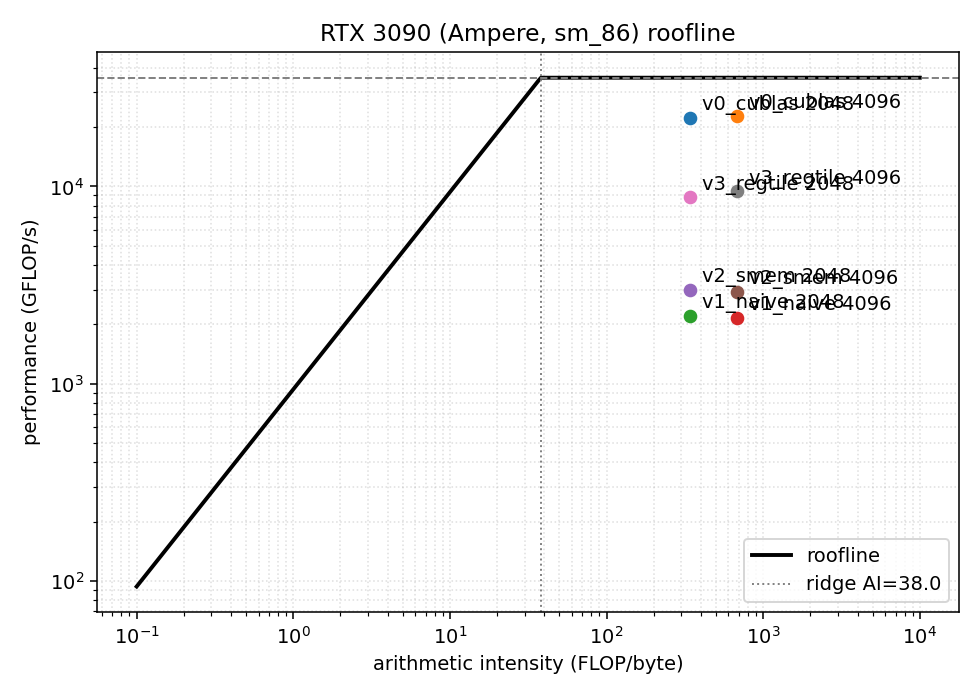
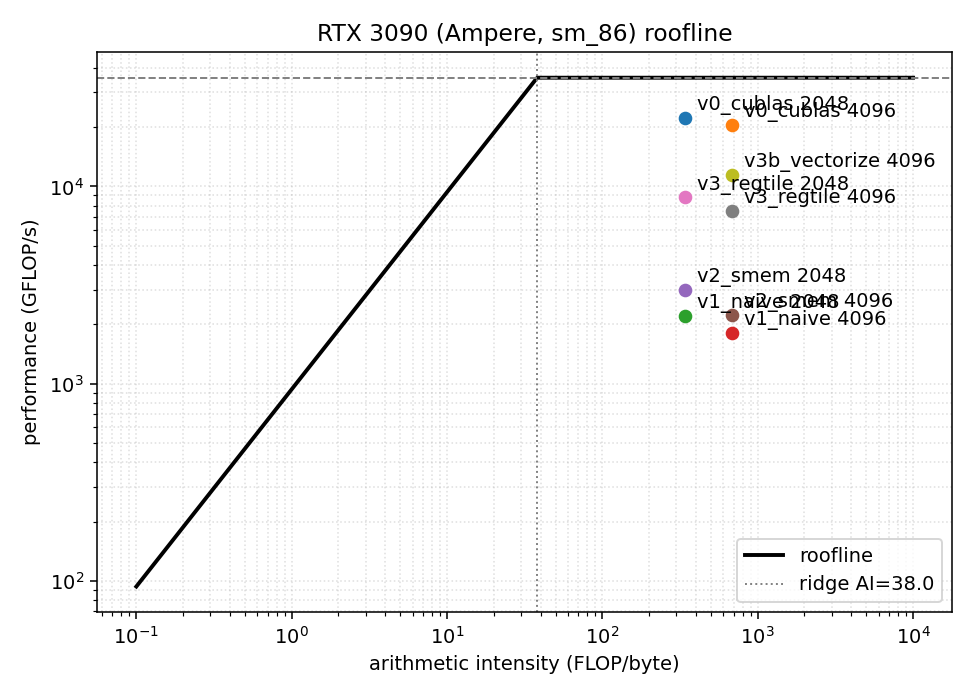
docs(gemm): land v3b results, NCU evidence, and roofline point
Results table gets the measured v3b row (55.8% SoL) plus refreshed
locked-clock numbers for v0-v3, since the previous table was measured
without locked clocks. gemm-notes.md gets the full v3b_vectorize
entry: bottleneck analysis from a real NCU profile (register_tile_vec,
4096^3), the worse-not-better bank-conflict finding left as an open
item pending SASS-level root cause, and the profiling-shape caveat
against v3's 1024^3 NCU numbers. NCU details CSV committed as
evidence, roofline gets the v3b point and the regenerated plot.

diff --git a/gemm/scripts/roofline.py b/gemm/scripts/roofline.py
@@ -20,16 +20,21 @@ import numpy as np
 PEAK_FP32_GFLOPS = 35600.0   # ~35.6 TFLOPS fp32 (3090 boost, 2x FP32 datapath) — verify
 PEAK_BW_GBs      = 936.0     # ~936 GB/s (GDDR6X, 384-bit) — verify
 
+# NOTE: the *_2048 points below predate GPU clock-locking (no locked-clock
+# 2048^3 measurement exists yet), while the *_4096 points for v0-v3b are from
+# a locked-clock run (`nvidia-smi -lgc`) — the two sets aren't directly
+# comparable to each other.
 # (label, arithmetic_intensity_flop_per_byte, achieved_GFLOPs)
 points = [
     ("v0_cublas 2048", 2048/6, 22247.4),
-    ("v0_cublas 4096", 4096/6, 22873.3),
+    ("v0_cublas 4096", 4096/6, 20543.9),
     ("v1_naive 2048",  2048/6,  2213.1),
-    ("v1_naive 4096",  4096/6,  2151.2),
+    ("v1_naive 4096",  4096/6,  1802.9),
     ("v2_smem 2048",   2048/6,  2985.1),
-    ("v2_smem 4096",   4096/6,  2910.8),
+    ("v2_smem 4096",   4096/6,  2237.8),
     ("v3_regtile 2048", 2048/6, 8791.7),
-    ("v3_regtile 4096", 4096/6, 9431.4),
+    ("v3_regtile 4096", 4096/6, 7490.5),
+    ("v3b_vectorize 4096", 4096/6, 11473.1),
 ]
 
 ai = np.logspace(-1, 4, 400)

diff --git a/docs/gemm-notes.md b/docs/gemm-notes.md
@@ -177,3 +177,81 @@ Template:
   뜻으로, v4/이후 작업에는 독립적인 레버가 두 개 남아 있다: occupancy를
   올리는 것(더 작은 TM/TN 또는 더 짧게 사는 레지스터)과, bank-conflict
   접근 패턴 자체를 고치는 것.
+
+## v3b_vectorize (2026-08-17)
+- change: v3의 shared-memory read를 벡터화했다. `As`를 `[BM][BK]`가 아니라
+  전치된 `[BK][BM]` 레이아웃으로 스테이징하고, `regM`/`regN`을 채울 때
+  v3처럼 `TM`/`TN`번의 scalar 원소 루프(`As[ty*TM+i][k]` 8회,
+  `Bs[k][tx*TN+j]` 8회) 대신 `reinterpret_cast<float4*>`로 operand당
+  2번의 float4 load로 8개 원소를 한 번에 읽는다. `BM=BN=128, BK=8,
+  TM=TN=8`은 v3와 동일하게 유지.
+- result (4096³, locked clock 기준— v0~v3와 동일 세션/조건):
+  - 11.979 ms, 11473.1 GFLOP/s, 55.8% SoL (v0 cuBLAS 20543.9 GFLOP/s)
+  - v3(7490.5 GFLOP/s) 대비 +53.2% GFLOP/s, 같은 locked-clock 실행 기준.
+- bottleneck before: v3는 register tiling으로 MIO 파이프 포화는 풀었지만
+  (Mem Pipes Busy 84%→20.0%, 1024³ 프로파일) compute-bound로 못 넘어갔다.
+  96 reg/thread가 강제하는 33.3% theoretical occupancy(Block Limit
+  Registers=2) 때문에 memory latency를 숨길 warp가 부족했고,
+  `As[ty*TM+i][k]` 컬럼 접근이 shared-load wavefront의 50.0%에서 평균
+  3.2-way bank conflict를 냈다.
+- bottleneck after (NCU 실측 확인, 4096³, `register_tile_vec` 커널,
+  `ncu --import v3b.ncu-rep`): **주의: 이 프로파일은 4096³(grid 1024
+  블록/256 스레드)에서 떴고, 위 v3 항목의 NCU 수치(Mem Pipes Busy 20.0%,
+  3.2-way/50% bank conflict)는 `make profile` 기본 타겟인 1024³에서 뜬
+  것이다. 두 항목의 원시 퍼센트 대부분(Memory Throughput 67.19%,
+  Compute(SM) 56.21%, DRAM 8.78% 등)은 shape이 달라 1:1로 직접 비교할 수
+  없다.** 다만 레지스터 풋프린트/occupancy는 shape 무관이라 안전하게
+  비교 가능한데: 96 reg/thread, Block Limit Registers=2, Theoretical
+  Occupancy 33.33%(achieved 32.36%)로 v3와 완전히 동일하다 — read 쪽만
+  벡터화해서는 occupancy가 전혀 바뀌지 않는다는 뜻이다.
+
+  occupancy·conflict 구조는 그대로거나 오히려 나빠졌는데도 Compute(SM)
+  Throughput은 56.21%까지 올랐고, NCU rule engine은 FMA를 "the
+  highest-utilized pipeline (43.5%)... well-utilized, but should not be
+  a bottleneck"이라고 지목한다(v3의 fma-heavy 10.3%/fma-lite 9.7%에서
+  큰 도약). Scheduler는 One or More Eligible 59.36% / No Eligible
+  40.64%, Active Warps Per Scheduler 3.89, Eligible Warps Per Scheduler
+  1.51, Warp Cycles Per Issued Instruction 6.55(scheduler당 약 1.7
+  사이클마다 1회 issue)로, v3보다 issue 여건이 개선됐다.
+
+  bank conflict는 벡터화에도 불구하고 오히려 악화됐다: shared-load는
+  134,217,728 요청 전체에서 평균 5.0-way conflict(268,435,456
+  conflicts, 전체 671,098,541 wavefront의 40.00%) — v3의 3.2-way보다
+  way-count는 늘고 wavefront 비율은 줄었다(40% vs 50%, shape 차이는
+  감안해야 한다). 게다가 v3에서는 전혀 언급되지 않았던 **shared-store
+  bank conflict**가 새로 나타난다: 33,554,432 store 요청에서 평균
+  4.5-way(117,440,512 conflicts, 전체 150,995,251 wavefront의
+  77.78%) — 전치된 `As[BK][BM]` 스테이징 레이아웃이 store address
+  패턴을 바꿨을 가능성이 있지만, SASS 레벨 원인은 아직 추적하지
+  않았다(v2 항목의 "unresolved discrepancy"와 같은 성격의 open item으로
+  남겨둔다).
+
+  Global load는 sector당 28.9/32바이트 사용(개선여지 약 6.5%), global
+  store는 4.0/32바이트(개선여지 약 58.8%) — 둘 다 v3와 동일한 기존
+  패턴(coalesced C-store 미적용)이고 v3b가 새로 만든 문제는 아니다.
+  DRAM Throughput 8.78%로 여전히 DRAM-bound는 아니다.
+- why it worked (or didn't): occupancy도 안 오르고 bank conflict도
+  개선되지 않았는데(오히려 store conflict가 새로 생겼는데) GFLOP/s는
+  v3 대비 +53.2% 올랐다. 데이터가 뒷받침하는 설명은 "conflict 해소"가
+  아니라 "명령어당 처리량"이다: `TM`/`TN` 루프 8회의 scalar shared
+  load를 float4 load 2회로 줄이면, 각 살아남은 로드 명령어가(bank
+  conflict 때문에) 더 많이 replay되긴 해도, k-iteration 하나를 도는 데
+  필요한 shared-load *명령어 개수* 자체가 크게 줄어든다. 그 결과
+  issue된 명령어당 retire되는 FMA 비율이 올라갔고, 이게 그대로
+  Compute(SM) Throughput 20.0%→56.21%, FMA pipe ~10%→43.5%로
+  나타났다. occupancy(33.33%, 동일)나 bank conflict(오히려 악화)가
+  고쳐져서 빨라진 게 아니라, 명령어 발행 자체가 줄어든 것이 병목을
+  완화시켰다는 뜻이다.
+- surprises: (1) 벡터화가 오히려 bank conflict를 키웠다 — load는
+  3.2-way→5.0-way, 게다가 v3에서는 안 보이던 store conflict(4.5-way,
+  wavefront의 77.78%)까지 새로 생겼다. 직관과 반대되는 결과라 SASS
+  레벨 원인 추적이 필요하다(미확인, open item). (2) occupancy가 조금도
+  개선되지 않았다 — read 벡터화는 레지스터 사용량(96 reg/thread)에
+  전혀 영향을 주지 않아서 v3와 Block Limit Registers=2/33.33%가
+  정확히 동일하다. (3) 그럼에도 성능이 크게 오른 건 순전히 "명령어
+  개수 감소로 인한 FMA-per-issued-instruction 상승" 효과로 보인다 —
+  occupancy나 conflict가 아니라 issue-throughput이 이번 병목 완화의
+  진짜 메커니즘이라는 뜻이라, v4 이후에는 (a) bank conflict 자체를
+  고치는 레버와 (b) occupancy를 올리는 레버가 여전히 독립적으로 남아
+  있다.
+- evidence: [NCU details](ncu_register_tile_vec_details.csv)

diff --git a/gemm/README.md b/gemm/README.md
@@ -16,12 +16,17 @@ Filled in as each rung lands. `%SoL` = achieved GFLOP/s ÷ cuBLAS GFLOP/s.
 
 | version             | GFLOP/s | %SoL | dominant limiter (from NCU) |
 |---------------------|--------:|-----:|-----------------------------|
-| v0 cuBLAS (SoL)     | 22873.3 | 100  | reference                   |
-| v1 naive            |  2151.2 |  9.4 | L1TEX/LSU pipe saturation (NOT DRAM-bound — DRAM throughput only 1.6%; one uncoalesced global load per thread per iter) |
-| v2 smem tiling      |  2910.8 | 12.7 | MIO pipe saturation (shared-mem load per iter) + occupancy regression (66.7%, 1024-thread block) |
-| v3 register tiling  |  9431.4 | 41.0 | Register-limited occupancy (96 reg/thread → 33.3% theoretical, 2 blocks/SM) starves latency-hiding — short+long-scoreboard stalls dominate; NOT compute-bound (FMA pipe ~10%), + 50% shared-load bank conflicts (3.2-way) |
+| v0 cuBLAS (SoL)     | 20543.9 | 100  | reference                   |
+| v1 naive            |  1802.9 |  8.8 | L1TEX/LSU pipe saturation (NOT DRAM-bound — DRAM throughput only 1.6%; one uncoalesced global load per thread per iter) |
+| v2 smem tiling      |  2237.8 | 10.9 | MIO pipe saturation (shared-mem load per iter) + occupancy regression (66.7%, 1024-thread block) |
+| v3 register tiling  |  7490.5 | 36.5 | Register-limited occupancy (96 reg/thread → 33.3% theoretical, 2 blocks/SM) starves latency-hiding — short+long-scoreboard stalls dominate; NOT compute-bound (FMA pipe ~10%), + 50% shared-load bank conflicts (3.2-way) |
+| v3b vectorized loads| 11473.1 | 55.8 | Still register-limited occupancy (96 reg/thread, 33.3%, unchanged from v3), now compute-bound-adjacent (Compute(SM) 56.2%, FMA pipe 43.5%) despite worse shared bank conflicts (5.0-way load, new 4.5-way store) |
 | v4 cp.async pipeline|    —    |  —   | _TODO: stalls hidden?_      |
 | v5 WMMA tensor core |    —    |  —   | _TODO (fp16/tf32)_          |
+
+Measured with GPU clocks locked (`nvidia-smi -lgc`) for cross-session
+reproducibility; see the root README's clock-drift caveat for why that
+matters and why earlier indicative numbers aren't directly comparable.
 
 Roofline plot: [`../docs/roofline.png`](../docs/roofline.png) (regenerate with
 `scripts/roofline.py`; x-axis is algorithmic AI = N/6, assuming full reuse —
@@ -38,7 +43,7 @@ make                 # builds ./bench for sm_86 (override: make ARCH=sm_75)
 make bench-sizes     # 1024 / 2048 / 4096
 make profile KERNEL=naive_sgemm   # NCU on one kernel by name (default: naive_sgemm)
 make profile KERNEL=smem_sgemm
-make sanitize        # compute-sanitizer memcheck on v1-v3 at 1024^3
+make sanitize        # compute-sanitizer memcheck on v1-v3b at 1024^3
 ```
 
 v1 handles arbitrary shapes. v2+ kernels require tile-multiple shapes; the
@@ -56,6 +61,9 @@ Ampere-or-newer GPU for the v4/v5 features (v1–v3 build anywhere).
    lets you opt into ~100 KB smem/block for bigger tiles.
 3. **v3 register/thread tiling** — each thread computes an 8×8 micro-tile in
    registers; raises arithmetic intensity. Occupancy-vs-ILP trade-off lives here.
+   - **v3b vectorized loads** — float4 loads for the shared-memory reads feeding
+     regM/regN (2 vectorized loads/operand instead of 8 scalar loads); same
+     TM=TN=8 register footprint as v3.
 4. **v4 cp.async software pipeline** — float4 async global→shared copies with a
    multi-stage (2–4) buffer, hiding global latency behind compute. *This is the
    rung Ampere unlocks — impossible on the previous Turing card.* Same structure
@@ -64,7 +72,7 @@ Ampere-or-newer GPU for the v4/v5 features (v1–v3 build anywhere).
    lifts the compute roof to ~142 TFLOP/s, flipping the limiter back to feeding
    the cores. Strongest variant = cp.async-fed WMMA.
 
-v1–v3 are implemented; **v4–v5 are stubs with specs in the source
+v1–v3b are implemented; **v4–v5 are stubs with specs in the source
 comments** — implement one commit at a time so the history shows the progression.
 
 ## Layout

diff --git a/README.md b/README.md
@@ -15,7 +15,7 @@ closing the gap rung by rung.
 
 | chapter | scope | status |
 |---------|-------|--------|
-| [gemm/](gemm/) | naive → smem → register tile → cp.async pipeline → WMMA | v1–v3 landed; v4–v5 stubs |
+| [gemm/](gemm/) | naive → smem → register tile → cp.async pipeline → WMMA | v1–v3b landed; v4–v5 stubs |
 | [flash-attn/](flash-attn/) | FlashAttention-2 kernel + profile, sm_86 | planned (Aug 2026) |
 | [kv-cache/](kv-cache/) | KV cache + speculative-decoding profiling | planned (Sep–Oct 2026) |
 
